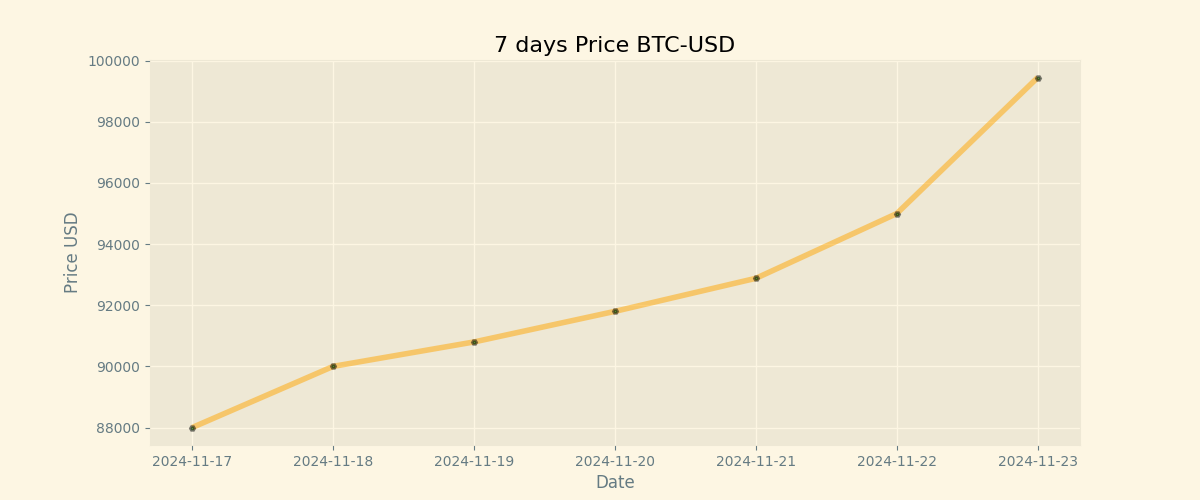
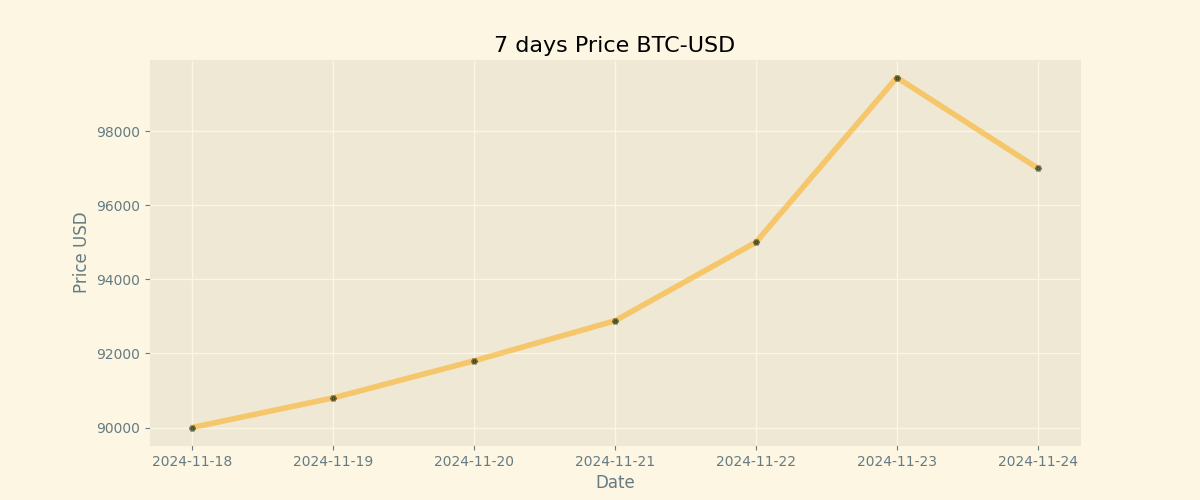
Duty Updates 2024-11-24

diff --git a/README.md b/README.md
@@ -9,8 +9,8 @@
 
 | Currency | Price           |
 | -------- | --------------- |
-| **BTC**  | **$ 99449.99** |
-| **ETH**  | **$ 3304.18** |
+| **BTC**  | **$ 97000.01** |
+| **ETH**  | **$ 3450.0** |
 
 ## BTC chart
 
